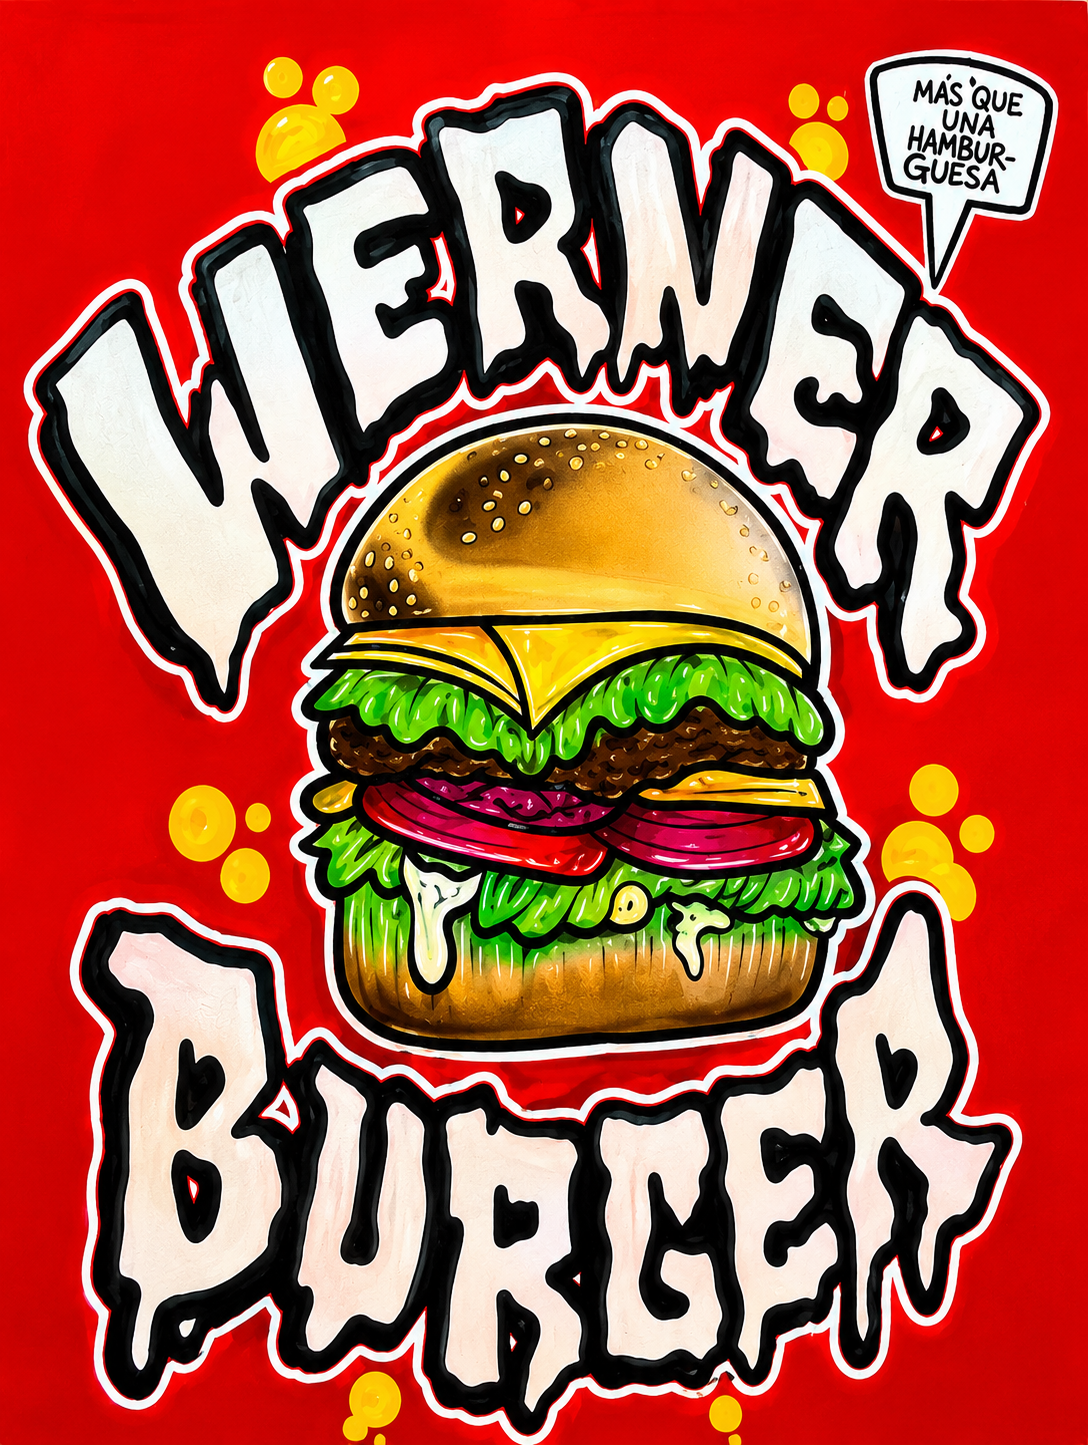
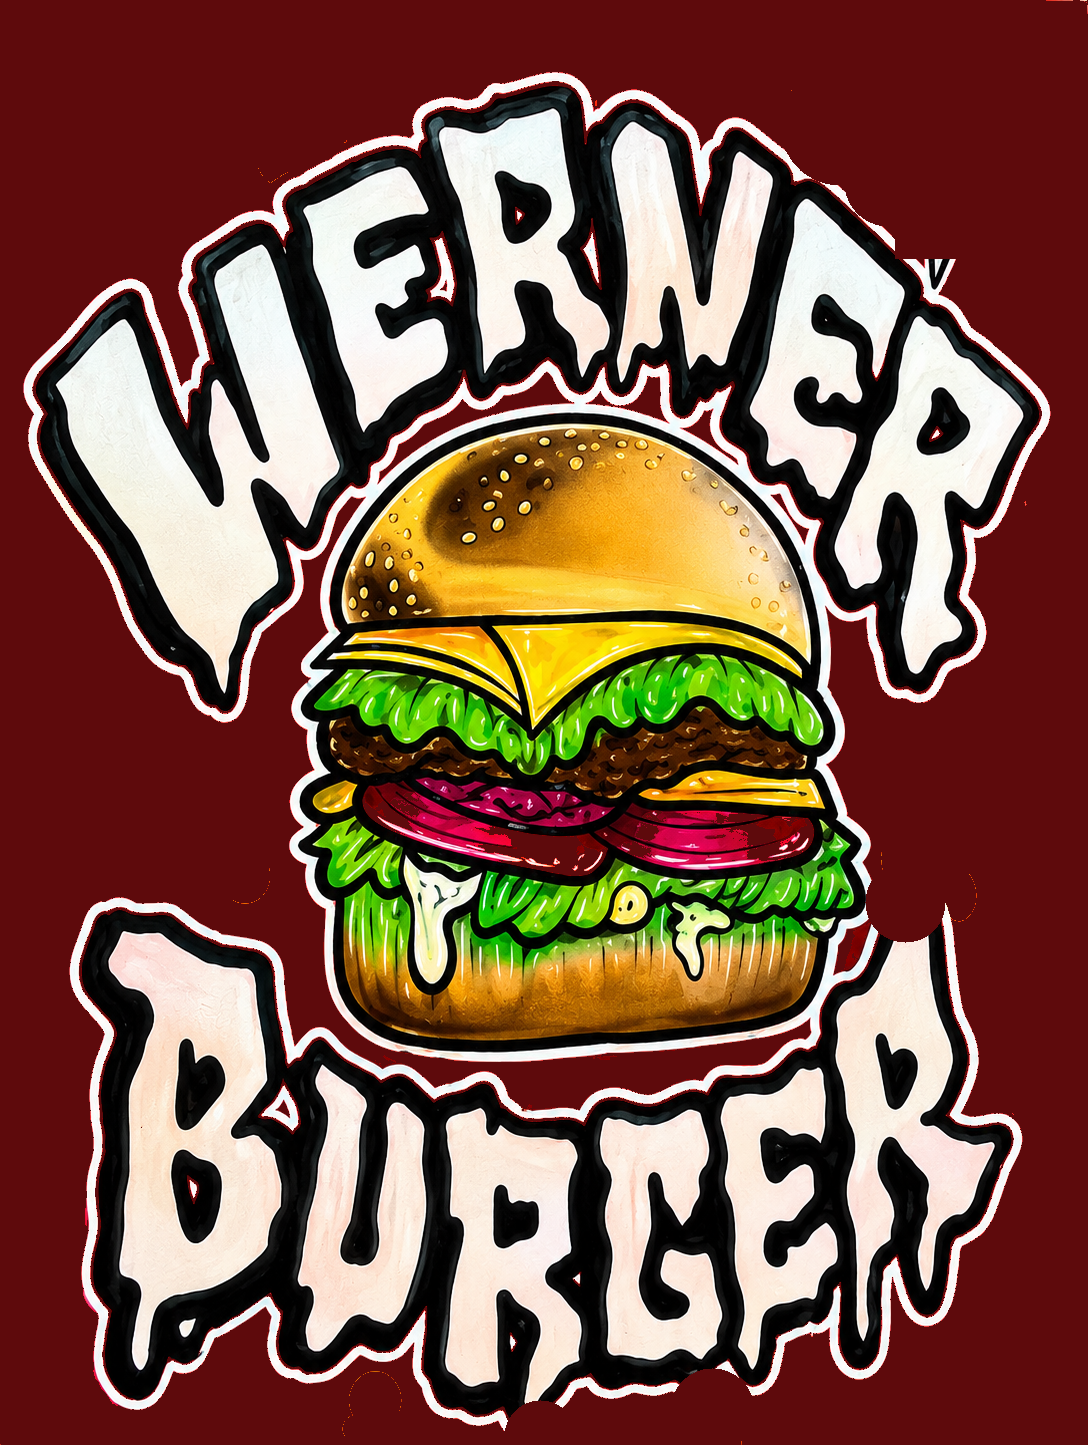
v8

diff --git a/src/views/Home.tsx b/src/views/Home.tsx
@@ -139,7 +139,7 @@ export default function Home({ onOrder, onKitchenAccess }: Props) {
 
       {/* Hero */}
       <section className="relative min-h-screen flex items-center overflow-hidden">
-        <div className="absolute inset-0 bg-[#c5110f]">
+        <div className="absolute inset-0 bg-[#5e0a0c]">
           {/* Relleno ambiental: copia difuminada que cubre toda el área sin bordes duros */}
           <img
             src="/werner-banner.png"
@@ -151,7 +151,7 @@ export default function Home({ onOrder, onKitchenAccess }: Props) {
           <img
             src="/werner-banner.png"
             alt="Werner Burger — Más que una hamburguesa"
-            className="absolute inset-0 h-full w-full object-contain object-center sm:object-right opacity-100 drop-shadow-[0_25px_60px_rgba(0,0,0,0.55)]"
+            className="absolute inset-0 h-full w-full object-contain object-center opacity-100 drop-shadow-[0_25px_60px_rgba(0,0,0,0.55)]"
           />
           {/* Oscurecido para legibilidad del texto a la izquierda */}
           <div className="absolute inset-0 bg-gradient-to-r from-ink/92 via-ink/70 to-ink/20" />